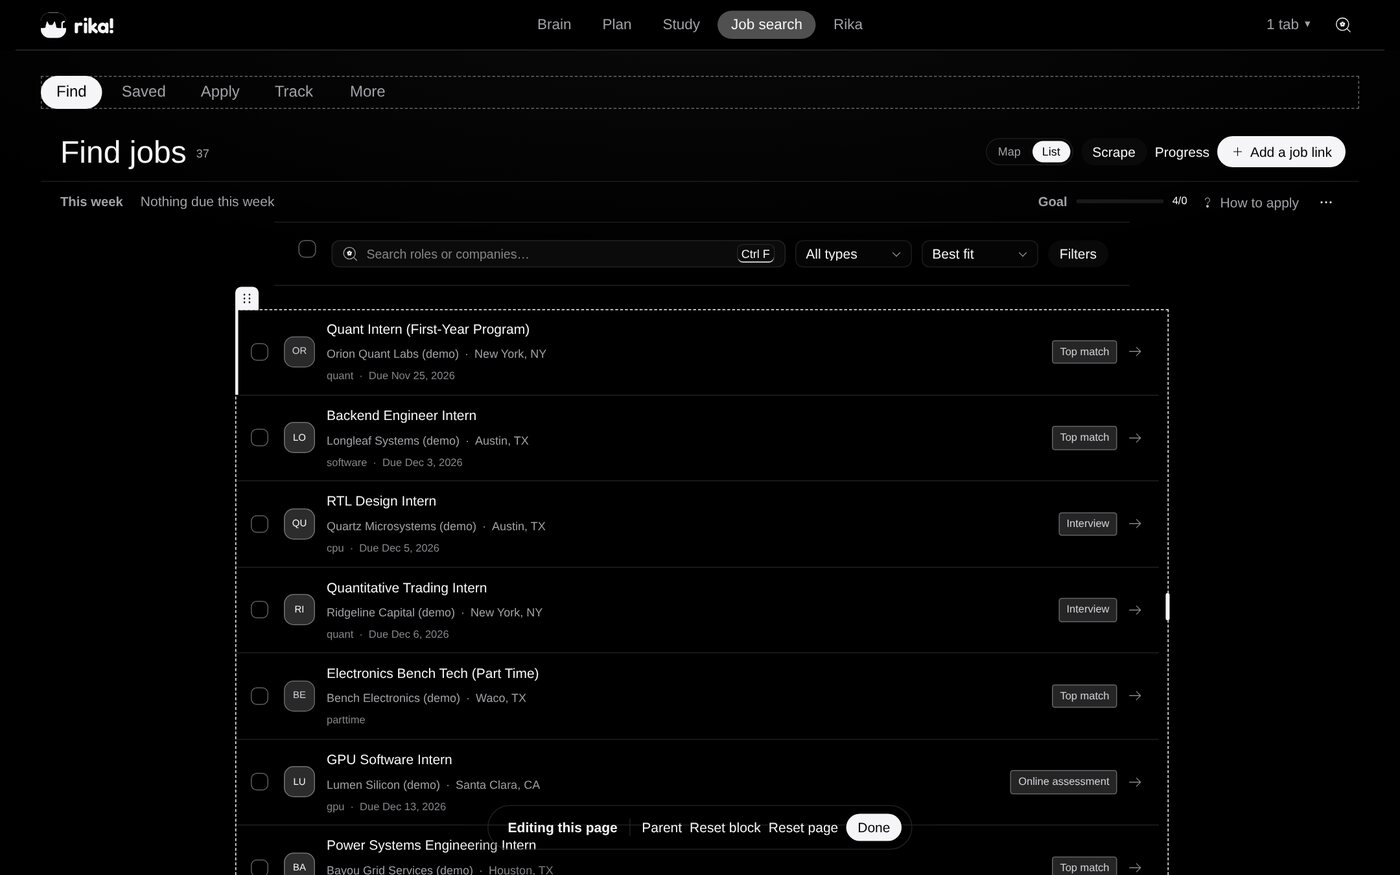
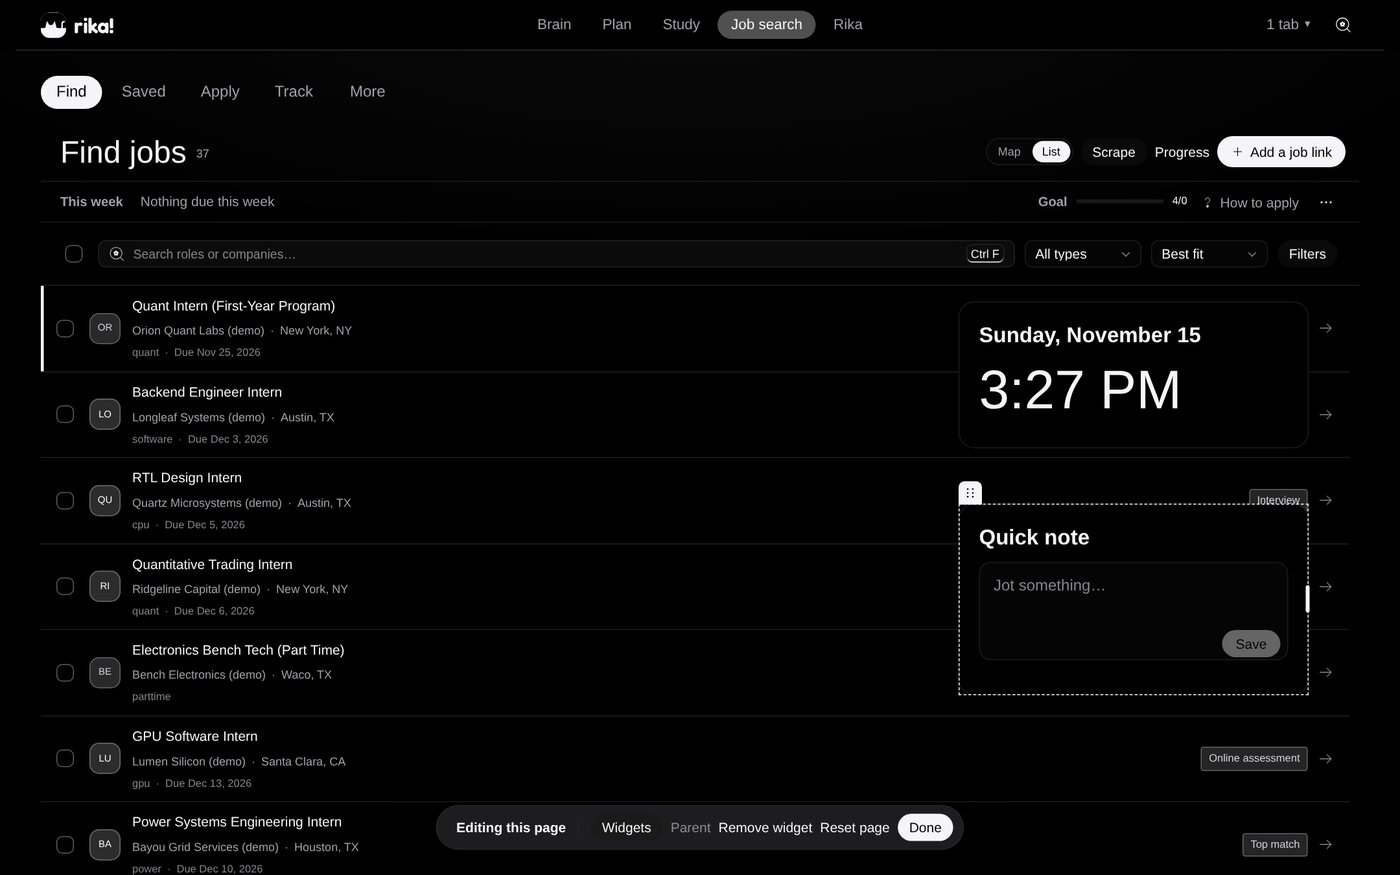
Edit mode gets a Widgets dropdown: drag widgets into Home's columns or onto any page (ui.pages.widgets); the job list's selection bar gets its fill

diff --git a/web/src/lib/JobBrowser.svelte b/web/src/lib/JobBrowser.svelte
@@ -1050,7 +1050,7 @@
     padding: 8px 10px 8px 20px;
     border: 1px solid var(--border);
     border-radius: 999px;
-    background: var(--raised);
+    background: var(--surface-raised);
     box-shadow: 0 18px 50px rgb(0 0 0 / 0.55);
     font-size: var(--text-small, 14px);
     transform: translateX(-50%);

diff --git a/README.md b/README.md
@@ -101,7 +101,7 @@ your goals. Press Done and the page stays that way.
 Home goes further: eighteen templates to start from, widgets in the order you
 like, and six quiet colours to tell them apart.
 
-<img src="docs/screenshots/readme/edit.jpg" width="100%" alt="Edit mode on a page: a dashed outline around one block with a grip and resize handles, the Widgets menu open above a small bar at the bottom of the window that ends in Done.">
+<img src="docs/screenshots/readme/edit.jpg" width="100%" alt="Edit mode on the Find jobs page: a clock and a quick note dragged onto the page, a dashed outline with a grip around the quick note, and a small bar at the bottom with Widgets, Remove widget, Reset page and Done.">
 <p align="center"><sub>Edit any page: move it, size it, drag a widget in.</sub></p>
 
 ### Black by default. Loud when you want it.
